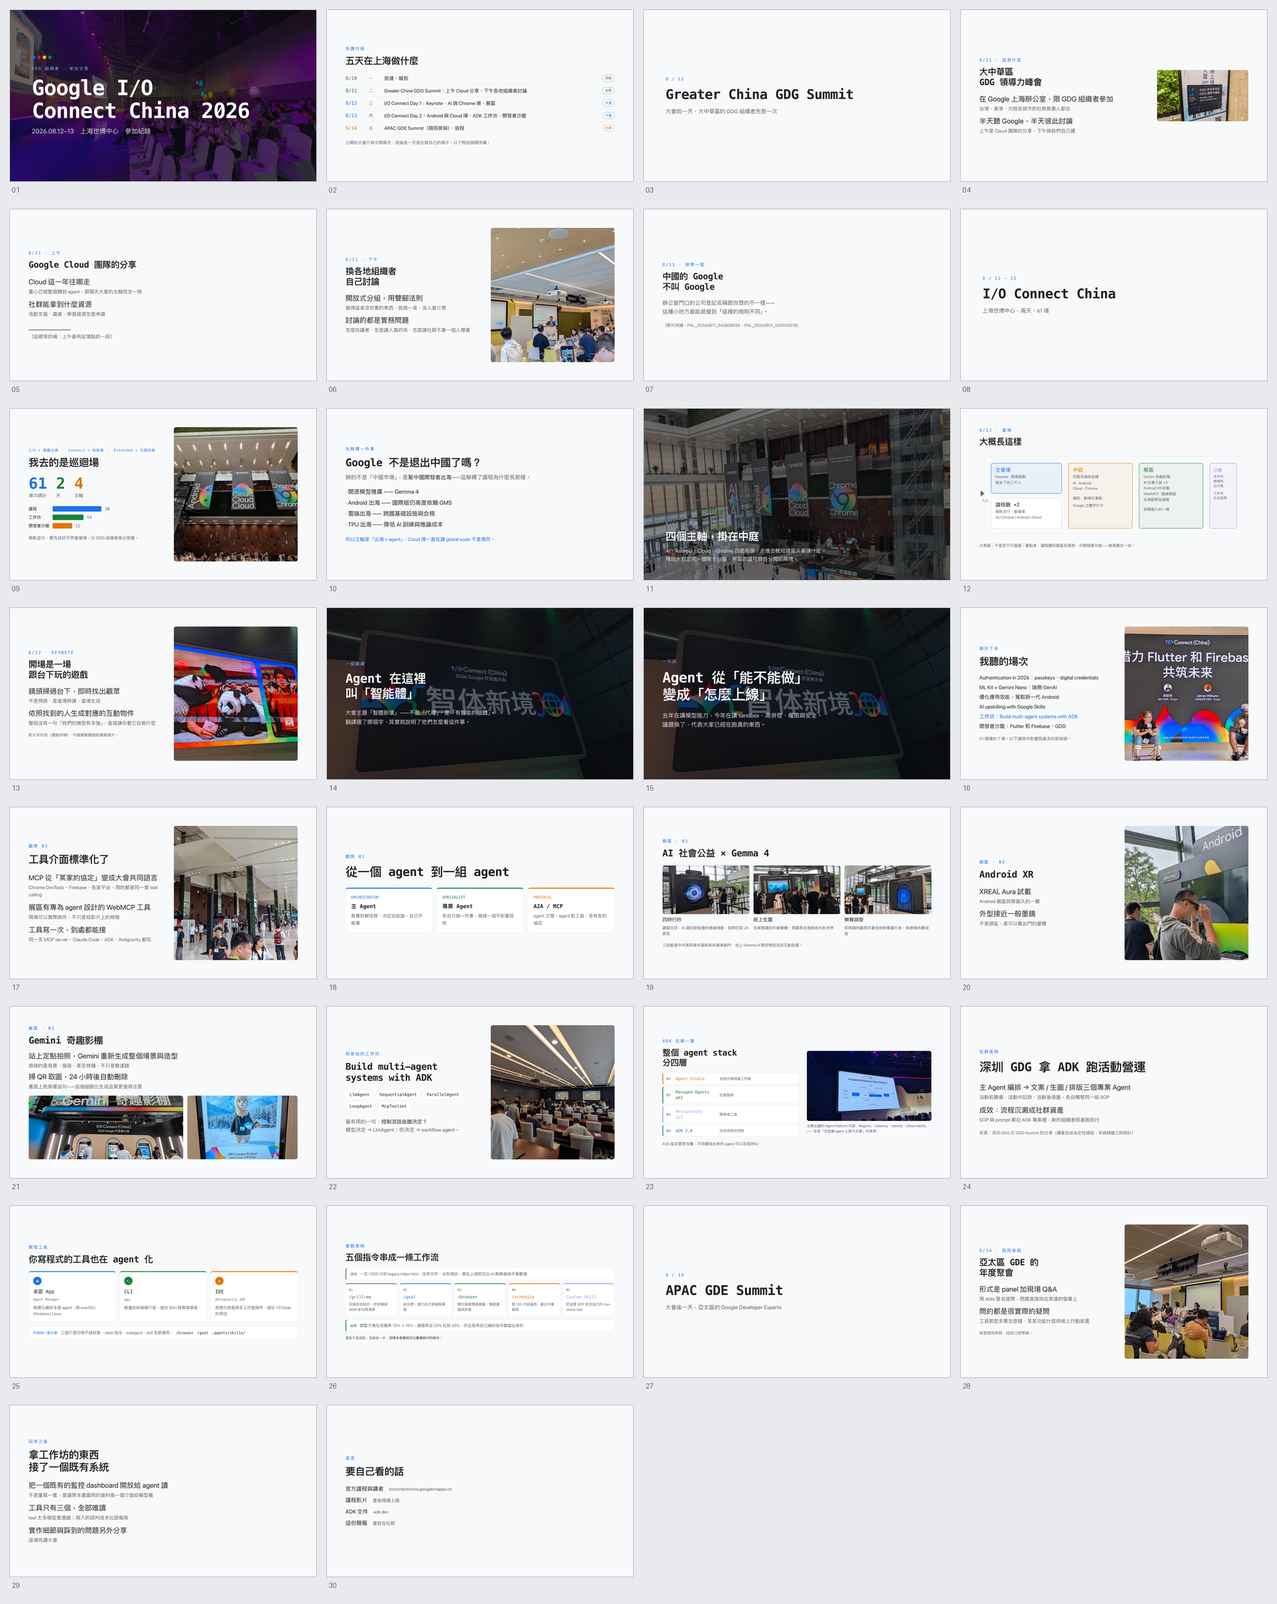
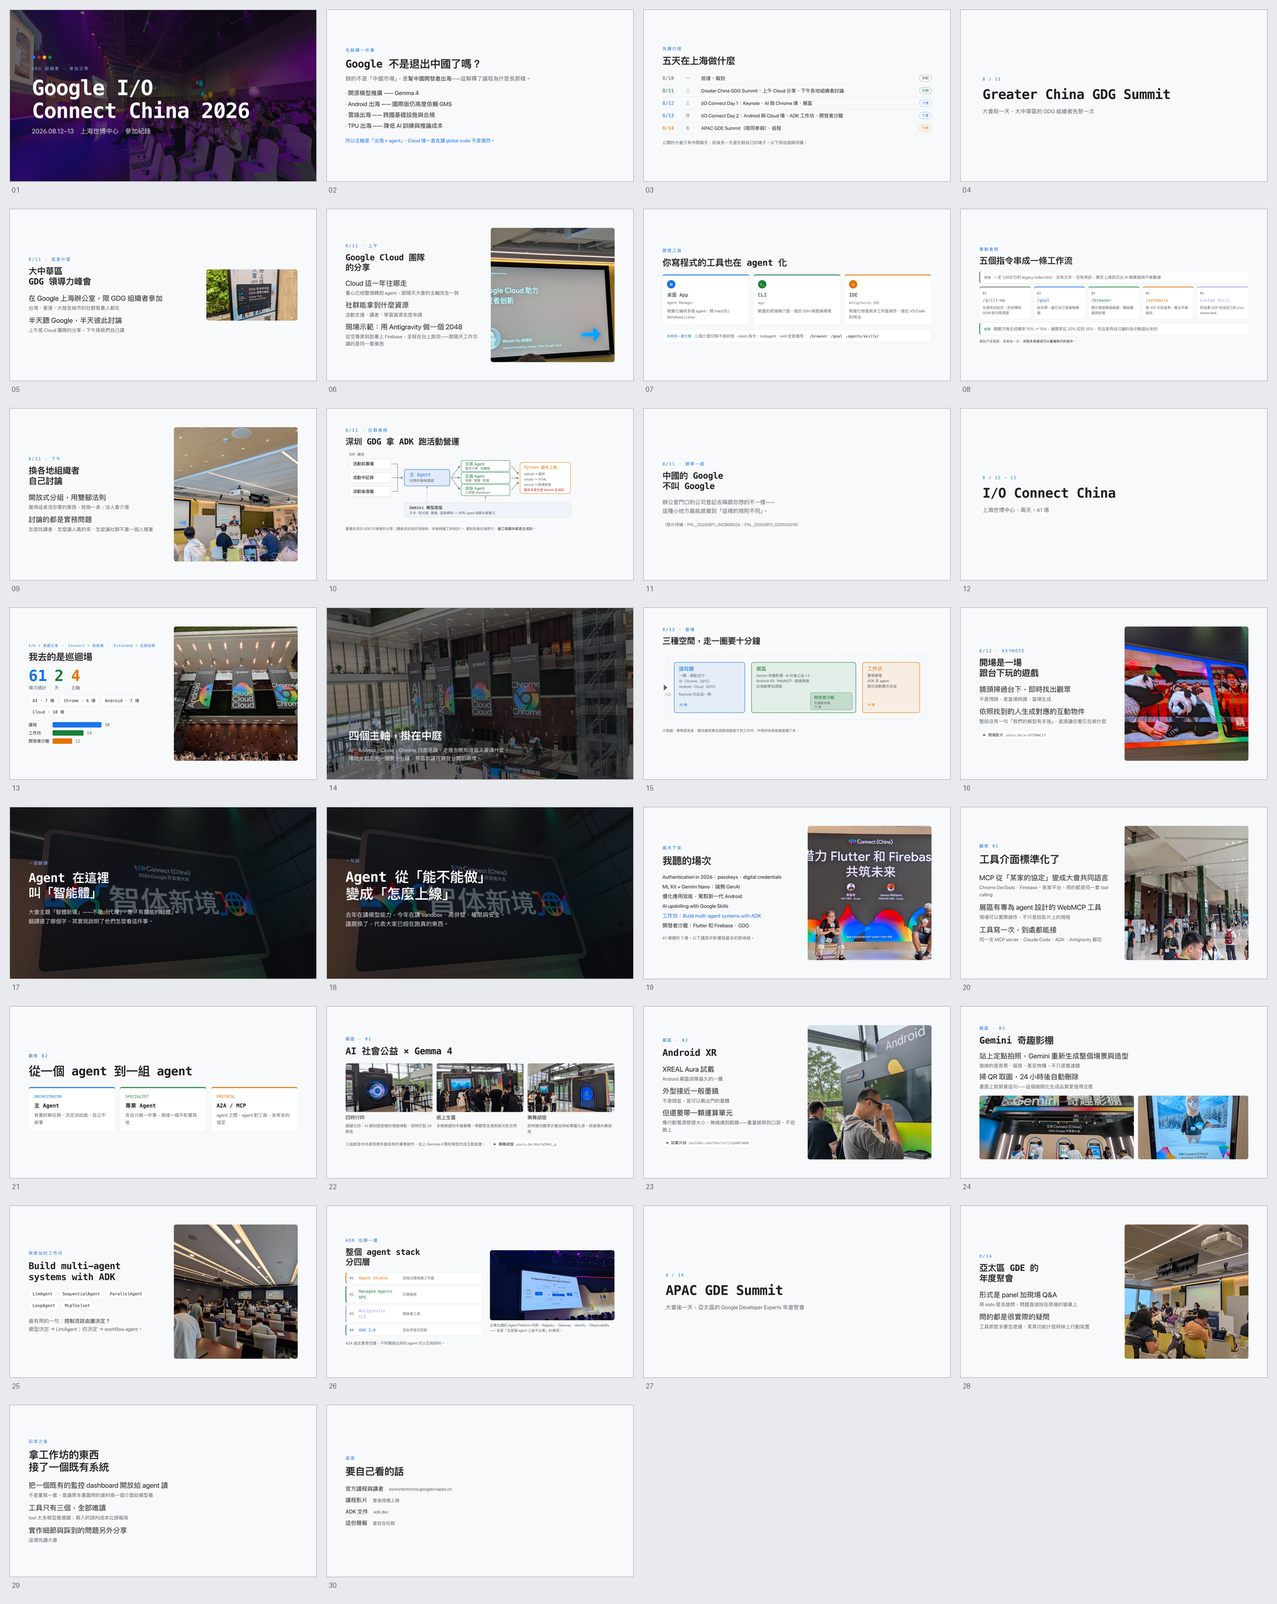
feat(slides): redraw shenzhen architecture, add videos and venue map

diff --git a/slides/io-connect-2026/index.tsx b/slides/io-connect-2026/index.tsx
@@ -11,6 +11,7 @@ import agentPlatform from './assets/agent-platform.jpg';
 import googleSign from './assets/google-sign.jpg';
 import gdgSummit from './assets/gdg-summit.jpg';
 import gdgPoster from './assets/gdg-poster.jpg';
+import gdgCloud from './assets/gdg-cloud.jpg';
 import gdeSummit from './assets/gde-summit.jpg';
 import venue from './assets/venue.jpg';
 import keynoteGame from './assets/keynote-game.jpg';
@@ -279,6 +280,25 @@ const DayRow = ({ date, day, what, tag, color }: { date: string; day: string; wh
   </div>
 );
 
+/** 影片註記:投影時講者自己切過去播 */
+const VideoNote = ({ label, url }: { label: string; url: string }) => (
+  <div
+    style={{
+      display: 'inline-flex',
+      alignItems: 'baseline',
+      gap: 14,
+      border: `1px solid ${line}`,
+      background: card,
+      borderRadius: 999,
+      padding: '10px 22px',
+    }}
+  >
+    <span style={{ color: red, fontSize: 22 }}>▶</span>
+    <span style={{ fontSize: 24 }}>{label}</span>
+    <span style={{ fontFamily: 'var(--osd-font-display)', fontSize: 21, color: muted }}>{url}</span>
+  </div>
+);
+
 // ---------------------------------------------------------------- pages
 
 const Cover: Page = () => (
@@ -316,23 +336,26 @@ const Where: Page = () => (
       <div style={{ ...eyebrow, fontSize: 22, letterSpacing: '0.08em', textTransform: 'none' }}>
         I/O = 美國主場　·　Connect = 巡迴場　·　Extended = 社群自辦
       </div>
-      <h2 style={{ ...h2, fontSize: 64, marginTop: 22 }}>我去的是巡迴場</h2>
+      <h2 style={{ ...h2, fontSize: 58, marginTop: 20 }}>我去的是巡迴場</h2>
 
-      <div style={{ display: 'flex', gap: 56, marginTop: 44 }}>
+      <div style={{ display: 'flex', gap: 46, marginTop: 34 }}>
         <Figure n="61" label="場次總計" color="#1a73e8" />
         <Figure n="2" label="天" color={green} />
         <Figure n="4" label="主軸" color={yellow} />
       </div>
 
-      <div style={{ display: 'flex', flexDirection: 'column', gap: 14, marginTop: 44 }}>
+      <div style={{ display: 'flex', flexWrap: 'wrap', gap: 10, marginTop: 30 }}>
+        <Chip text="AI · 7 場" />
+        <Chip text="Chrome · 6 場" />
+        <Chip text="Android · 7 場" />
+        <Chip text="Cloud · 10 場" />
+      </div>
+
+      <div style={{ display: 'flex', flexDirection: 'column', gap: 12, marginTop: 30 }}>
         <TrackBar name="議程" n={30} total={61} color="#1a73e8" />
         <TrackBar name="工作坊" n={19} total={61} color={green} />
         <TrackBar name="開發者沙龍" n={12} total={61} color={yellow} />
       </div>
-
-      <p style={{ fontSize: 26, color: muted, marginTop: 36, marginBottom: 0 }}>
-        兩軌並行，要先排好不然會撞場。以 GDG 組織者身分受邀。
-      </p>
     </div>
     <PhotoSide src={tracks} />
   </div>
@@ -450,9 +473,12 @@ const BoothArt: Page = () => (
         note="即時識別觀眾衣著並映射專屬化身，與唐俑共舞胡旋"
       />
     </div>
-    <p style={{ fontSize: 24, color: muted, marginTop: 36, marginBottom: 0 }}>
-      三組都是中央美院青年藝術家的畢業創作，加上 Gemma 4 開放模型改成互動裝置。
-    </p>
+    <div style={{ display: 'flex', alignItems: 'center', gap: 24, marginTop: 32, flexWrap: 'wrap' }}>
+      <span style={{ fontSize: 24, color: muted }}>
+        三組都是中央美院青年藝術家的畢業創作，加上 Gemma 4 開放模型改成互動裝置。
+      </span>
+      <VideoNote label="樂舞胡旋" url="youtu.be/AbeYp5MeL_g" />
+    </div>
   </div>
 );
 
@@ -461,9 +487,16 @@ const BoothXr: Page = () => (
     <div style={{ flex: 1 }}>
       <div style={eyebrow}>展區 · 02</div>
       <h2 style={{ ...h2, fontSize: 58, marginTop: 24 }}>Android XR</h2>
-      <div style={{ display: 'flex', flexDirection: 'column', gap: 24, marginTop: 40 }}>
+      <div style={{ display: 'flex', flexDirection: 'column', gap: 22, marginTop: 36 }}>
         <Bullet text="XREAL Aura 試戴" sub="Android 展區排隊最久的一攤" />
         <Bullet text="外型接近一般墨鏡" sub="不是頭盔，是可以戴出門的量體" />
+        <Bullet
+          text="但還要帶一顆運算單元"
+          sub="像行動電源那樣大小，無線連到眼鏡——重量被移到口袋，不在臉上"
+        />
+      </div>
+      <div style={{ marginTop: 30 }}>
+        <VideoNote label="試戴片段" url="youtube.com/shorts/ilkpGmFsWaE" />
       </div>
     </div>
     <PhotoSide src={boothXr} />
@@ -538,15 +571,69 @@ const Stack: Page = () => (
 );
 
 const Shenzhen: Page = () => (
-  <div style={{ ...page, justifyContent: 'center' }}>
-    <div style={eyebrow}>社群案例</div>
-    <h2 style={{ ...h2, marginTop: 30 }}>深圳 GDG 拿 ADK 跑活動營運</h2>
-    <div style={{ display: 'flex', flexDirection: 'column', gap: 28, marginTop: 50 }}>
-      <Bullet text="主 Agent 編排 → 文案 / 生圖 / 排版三個專業 Agent" sub="活動前籌備、活動中記錄、活動後復盤，各自觸發同一組 SOP" />
-      <Bullet text="成效：流程沉澱成社群資產" sub="SOP 與 prompt 都在 ADK 專案裡，新的組織者照著跑就行" />
-    </div>
-    <p style={{ fontSize: 26, color: muted, marginTop: 40, marginBottom: 0 }}>
-      來源：深圳 GDG 於 GDG Summit 的分享（講者自述為定性總結，未做精確工時統計）
+  <div style={{ ...page }}>
+    <div style={eyebrow}>8/11 · 社群案例</div>
+    <h2 style={{ ...h2, fontSize: 52, marginTop: 20 }}>深圳 GDG 拿 ADK 跑活動營運</h2>
+    <svg viewBox="0 0 1600 430" style={{ width: '100%', height: 'auto', marginTop: 26 }} role="img"
+         aria-label="多 agent 架構：SOP 觸發交給主 agent 拆解，分派給文案、生圖、排版三個專業 agent，再交給 Python 腳本工具，底層都是 Gemini">
+      <defs>
+        <marker id="sz" viewBox="0 0 10 10" refX="9" refY="5" markerWidth="7" markerHeight="7" orient="auto-start-reverse">
+          <polygon points="0,1 10,5 0,9" fill={muted} />
+        </marker>
+      </defs>
+
+      <text x="20" y="30" fontSize="21" fill={muted} fontFamily="ui-monospace, monospace">SOP 觸發</text>
+      <rect x="20" y="48" width="250" height="62" rx="10" fill={card} stroke={line} strokeWidth="2" />
+      <text x="44" y="87" fontSize="25">活動前籌備</text>
+      <rect x="20" y="130" width="250" height="62" rx="10" fill={card} stroke={line} strokeWidth="2" />
+      <text x="44" y="169" fontSize="25">活動中記錄</text>
+      <rect x="20" y="212" width="250" height="62" rx="10" fill={card} stroke={line} strokeWidth="2" />
+      <text x="44" y="251" fontSize="25">活動後復盤</text>
+
+      <path d="M 278 79 L 310 79 L 310 161 L 342 161" fill="none" stroke={muted} strokeWidth="2" />
+      <path d="M 278 161 L 342 161" fill="none" stroke={muted} strokeWidth="2" markerEnd="url(#sz)" />
+      <path d="M 278 243 L 310 243 L 310 161" fill="none" stroke={muted} strokeWidth="2" />
+
+      <rect x="350" y="112" width="270" height="98" rx="12" fill="rgba(26,115,232,0.1)" stroke="#1a73e8" strokeWidth="2.5" />
+      <text x="380" y="152" fontSize="28" fill="#1a73e8" fontFamily="ui-monospace, monospace">主 Agent</text>
+      <text x="380" y="186" fontSize="21" fill={muted}>任務拆解與調度</text>
+
+      <line x1="628" y1="161" x2="680" y2="90" stroke={muted} strokeWidth="2" markerEnd="url(#sz)" />
+      <line x1="628" y1="161" x2="680" y2="161" stroke={muted} strokeWidth="2" markerEnd="url(#sz)" />
+      <line x1="628" y1="161" x2="680" y2="232" stroke={muted} strokeWidth="2" markerEnd="url(#sz)" />
+
+      <rect x="688" y="58" width="290" height="66" rx="10" fill={card} stroke={green} strokeWidth="2" />
+      <text x="712" y="88" fontSize="24" fill={green}>文案 Agent</text>
+      <text x="712" y="112" fontSize="19" fill={muted}>報名文案 · 回顧稿</text>
+
+      <rect x="688" y="130" width="290" height="66" rx="10" fill={card} stroke={green} strokeWidth="2" />
+      <text x="712" y="160" fontSize="24" fill={green}>生圖 Agent</text>
+      <text x="712" y="184" fontSize="19" fill={muted}>海報 · 題圖 · 配圖</text>
+
+      <rect x="688" y="202" width="290" height="66" rx="10" fill={card} stroke={green} strokeWidth="2" />
+      <text x="712" y="232" fontSize="24" fill={green}>排版 Agent</text>
+      <text x="712" y="256" fontSize="19" fill={muted}>公眾號 Markdown</text>
+
+      <line x1="986" y1="90" x2="1030" y2="140" stroke={muted} strokeWidth="2" markerEnd="url(#sz)" />
+      <line x1="986" y1="163" x2="1030" y2="163" stroke={muted} strokeWidth="2" markerEnd="url(#sz)" />
+      <line x1="986" y1="235" x2="1030" y2="186" stroke={muted} strokeWidth="2" markerEnd="url(#sz)" />
+
+      <rect x="1038" y="70" width="300" height="186" rx="12" fill={card} stroke={yellow} strokeWidth="2" />
+      <text x="1062" y="108" fontSize="24" fill={yellow} fontFamily="ui-monospace, monospace">Python 腳本工具</text>
+      <text x="1062" y="146" fontSize="20" fill={muted}>upload → 圖床</text>
+      <text x="1062" y="178" fontSize="20" fill={muted}>render → HTML</text>
+      <text x="1062" y="210" fontSize="20" fill={muted}>record → 現場錄音</text>
+      <text x="1062" y="240" fontSize="19" fill={red}>腳本本身也是 Gemini 生成的</text>
+
+      <rect x="350" y="310" width="988" height="86" rx="12" fill="rgba(66,133,244,0.05)" stroke={line} strokeWidth="2" />
+      <text x="380" y="348" fontSize="24" fontFamily="ui-monospace, monospace">Gemini 模型底座</text>
+      <text x="380" y="378" fontSize="20" fill={muted}>文本 · 程式碼 · 圖像 · 語音轉寫——所有 agent 與腳本都靠它</text>
+      <line x1="485" y1="306" x2="485" y2="214" stroke={muted} strokeWidth="1.5" strokeDasharray="4 4" markerEnd="url(#sz)" />
+      <line x1="833" y1="306" x2="833" y2="272" stroke={muted} strokeWidth="1.5" strokeDasharray="4 4" markerEnd="url(#sz)" />
+    </svg>
+    <p style={{ fontSize: 22, color: muted, marginTop: 20, marginBottom: 0 }}>
+      重畫自深圳 GDG 於峰會的分享（講者自述為定性總結，未做精確工時統計）。
+      重點是最右邊那行：<span style={{ color: 'var(--osd-text)' }}>連工具腳本都是生成的</span>。
     </p>
   </div>
 );
@@ -668,14 +755,20 @@ const GdgWhat: Page = () => (
 );
 
 const GdgMorning: Page = () => (
-  <div style={{ ...page, justifyContent: 'center' }}>
-    <div style={eyebrow}>8/11 · 上午</div>
-    <h2 style={{ ...h2, fontSize: 54, marginTop: 22 }}>Google Cloud 團隊的分享</h2>
-    <div style={{ display: 'flex', flexDirection: 'column', gap: 26, marginTop: 42 }}>
-      <Bullet text="Cloud 這一年往哪走" sub="重心已經整個轉到 agent，跟隔天大會的主軸完全一致" />
-      <Bullet text="社群能拿到什麼資源" sub="活動支援、講者、學習資源怎麼申請" />
-      <Bullet text="＿＿＿＿＿＿" sub="（這裡等你補：上午最有記憶點的一段）" />
+  <div style={{ ...page, flexDirection: 'row', gap: 56, alignItems: 'center' }}>
+    <div style={{ flex: 1 }}>
+      <div style={eyebrow}>8/11 · 上午</div>
+      <h2 style={{ ...h2, fontSize: 52, marginTop: 22 }}>Google Cloud 團隊<br />的分享</h2>
+      <div style={{ display: 'flex', flexDirection: 'column', gap: 22, marginTop: 36 }}>
+        <Bullet text="Cloud 這一年往哪走" sub="重心已經整個轉到 agent，跟隔天大會的主軸完全一致" />
+        <Bullet text="社群能拿到什麼資源" sub="活動支援、講者、學習資源怎麼申請" />
+        <Bullet
+          text="現場示範：用 Antigravity 做一個 2048"
+          sub="從空專案到部署上 Firebase，全程在台上跑完——跟隔天工作坊講的是同一套東西"
+        />
+      </div>
     </div>
+    <PhotoSide src={gdgCloud} />
   </div>
 );
 
@@ -728,51 +821,42 @@ const Venue: Page = () => (
 const VenueMap: Page = () => (
   <div style={{ ...page }}>
     <div style={eyebrow}>8/12 · 會場</div>
-    <h2 style={{ ...h2, fontSize: 54, marginTop: 20 }}>大概長這樣</h2>
-    <svg viewBox="0 0 1600 520" style={{ width: '100%', height: 'auto', marginTop: 28 }} role="img"
-         aria-label="會場配置示意圖：入口進來是中庭，左邊是主會場與議程廳，右邊是展區，外側是半戶外的開發者沙龍">
-      <rect x="30" y="30" width="1540" height="460" rx="16" fill="none" stroke={line} strokeWidth="2" strokeDasharray="6 5" />
+    <h2 style={{ ...h2, fontSize: 52, marginTop: 20 }}>三種空間，走一圈要十分鐘</h2>
+    <svg viewBox="0 0 1600 440" style={{ width: '100%', height: 'auto', marginTop: 30 }} role="img"
+         aria-label="會場配置：一樓藍色是議程廳，綠色是展區，黃色是工作坊，開發者沙龍在展區末端">
+      <rect x="30" y="30" width="1540" height="380" rx="16" fill="none" stroke={line} strokeWidth="2" strokeDasharray="6 5" />
 
-      <rect x="70" y="70" width="420" height="180" rx="12" fill="rgba(26,115,232,0.07)" stroke="#1a73e8" strokeWidth="2" />
-      <text x="96" y="120" fontSize="30" fontFamily="ui-monospace, monospace" fill="#1a73e8">主會場</text>
-      <text x="96" y="158" fontSize="22" fill={muted}>Keynote · 開場遊戲</text>
-      <text x="96" y="192" fontSize="22" fill={muted}>能坐下近三千人</text>
+      <rect x="70" y="70" width="420" height="300" rx="12" fill="rgba(26,115,232,0.09)" stroke="#1a73e8" strokeWidth="2.5" />
+      <text x="98" y="118" fontSize="30" fontFamily="ui-monospace, monospace" fill="#1a73e8">議程廳</text>
+      <text x="98" y="156" fontSize="22" fill={muted}>一樓，兩軌並行</text>
+      <text x="98" y="190" fontSize="22" fill={muted}>AI · Chrome（8/12）</text>
+      <text x="98" y="222" fontSize="22" fill={muted}>Android · Cloud（8/13）</text>
+      <text x="98" y="268" fontSize="22" fill={muted}>Keynote 也在這一側</text>
+      <text x="98" y="330" fontSize="20" fill="#1a73e8">30 場</text>
 
-      <rect x="70" y="278" width="420" height="180" rx="12" fill={card} stroke={line} strokeWidth="2" />
-      <text x="96" y="328" fontSize="30" fontFamily="ui-monospace, monospace" fill="var(--osd-text)">議程廳 ×2</text>
-      <text x="96" y="366" fontSize="22" fill={muted}>兩軌並行，會撞場</text>
-      <text x="96" y="400" fontSize="22" fill={muted}>AI / Chrome / Android / Cloud</text>
+      <rect x="530" y="70" width="620" height="300" rx="12" fill="rgba(24,128,56,0.09)" stroke={green} strokeWidth="2.5" />
+      <text x="558" y="118" fontSize="30" fontFamily="ui-monospace, monospace" fill={green}>展區</text>
+      <text x="558" y="156" fontSize="22" fill={muted}>Gemini 奇趣影棚 · AI 社會公益 ×3</text>
+      <text x="558" y="188" fontSize="22" fill={muted}>Android XR · WebMCP · 邊緣推論</text>
+      <text x="558" y="220" fontSize="22" fill={muted}>出海創業加速器</text>
 
-      <rect x="530" y="70" width="380" height="388" rx="12" fill="rgba(232,116,0,0.06)" stroke={yellow} strokeWidth="2" />
-      <text x="556" y="120" fontSize="30" fontFamily="ui-monospace, monospace" fill={yellow}>中庭</text>
-      <text x="556" y="158" fontSize="22" fill={muted}>四面吊旗掛這裡</text>
-      <text x="556" y="196" fontSize="22" fill={muted}>AI · Android</text>
-      <text x="556" y="228" fontSize="22" fill={muted}>Cloud · Chrome</text>
-      <text x="556" y="286" fontSize="22" fill={muted}>報到、動線交會點</text>
-      <text x="556" y="330" fontSize="22" fill={muted}>Google 立體字打卡</text>
+      <rect x="880" y="250" width="248" height="102" rx="10" fill="rgba(24,128,56,0.16)" stroke={green} strokeWidth="2" strokeDasharray="5 4" />
+      <text x="902" y="288" fontSize="24" fill={green}>開發者沙龍</text>
+      <text x="902" y="318" fontSize="19" fill={muted}>在展區末端</text>
+      <text x="902" y="342" fontSize="19" fill={muted}>12 場</text>
 
-      <rect x="950" y="70" width="380" height="388" rx="12" fill="rgba(24,128,56,0.06)" stroke={green} strokeWidth="2" />
-      <text x="976" y="120" fontSize="30" fontFamily="ui-monospace, monospace" fill={green}>展區</text>
-      <text x="976" y="158" fontSize="22" fill={muted}>Gemini 奇趣影棚</text>
-      <text x="976" y="192" fontSize="22" fill={muted}>AI 社會公益 ×3</text>
-      <text x="976" y="226" fontSize="22" fill={muted}>Android XR 試戴</text>
-      <text x="976" y="260" fontSize="22" fill={muted}>WebMCP · 邊緣推論</text>
-      <text x="976" y="294" fontSize="22" fill={muted}>出海創業加速器</text>
-      <text x="976" y="352" fontSize="22" fill={muted}>排隊最久的一塊</text>
+      <rect x="1190" y="70" width="340" height="300" rx="12" fill="rgba(232,116,0,0.09)" stroke={yellow} strokeWidth="2.5" />
+      <text x="1218" y="118" fontSize="30" fontFamily="ui-monospace, monospace" fill={yellow}>工作坊</text>
+      <text x="1218" y="156" fontSize="22" fill={muted}>要帶筆電</text>
+      <text x="1218" y="188" fontSize="22" fill={muted}>ADK 多 agent</text>
+      <text x="1218" y="220" fontSize="22" fill={muted}>兩日挑戰賽也在這</text>
+      <text x="1218" y="330" fontSize="20" fill={yellow}>19 場</text>
 
-      <rect x="1370" y="70" width="160" height="388" rx="12" fill="rgba(164,143,240,0.06)" stroke="#a48ff0" strokeWidth="2" />
-      <text x="1392" y="120" fontSize="26" fontFamily="ui-monospace, monospace" fill="#a48ff0">沙龍</text>
-      <text x="1392" y="156" fontSize="20" fill={muted}>半戶外</text>
-      <text x="1392" y="184" fontSize="20" fill={muted}>綠植柱</text>
-      <text x="1392" y="212" fontSize="20" fill={muted}>白方凳</text>
-      <text x="1392" y="256" fontSize="20" fill={muted}>工作坊</text>
-      <text x="1392" y="284" fontSize="20" fill={muted}>也在這側</text>
-
-      <polygon points="30,250 8,232 8,268" fill={muted} />
-      <text x="14" y="300" fontSize="20" fill={muted}>入口</text>
+      <polygon points="30,220 8,202 8,238" fill={muted} />
+      <text x="12" y="268" fontSize="20" fill={muted}>入口</text>
     </svg>
-    <p style={{ fontSize: 24, color: muted, marginTop: 24, marginBottom: 0 }}>
-      示意圖，不是官方平面圖。重點是：議程廳和展區在兩側，中間隔著中庭——換場要走一段。
+    <p style={{ fontSize: 22, color: muted, marginTop: 22, marginBottom: 0 }}>
+      示意圖。實際感受是：聽完議程要走過整個展區才到工作坊，中間很容易被展區攔下來。
     </p>
   </div>
 );
@@ -786,9 +870,9 @@ const KeynoteGame: Page = () => (
         <Bullet text="鏡頭掃過台下，即時找出觀眾" sub="不是預錄，是當場辨識、當場生成" />
         <Bullet text="依照找到的人生成對應的互動物件" sub="整段沒有一句「我們的模型有多強」，直接讓你看它在做什麼" />
       </div>
-      <p style={{ fontSize: 24, color: muted, marginTop: 34, marginBottom: 0 }}>
-        影片另外放（連結待補），不進簡報檔避免檔案過大。
-      </p>
+      <div style={{ marginTop: 34 }}>
+        <VideoNote label="現場影片" url="youtu.be/x-16TENWLtI" />
+      </div>
     </div>
     <PhotoSide src={keynoteGame} />
   </div>
@@ -809,21 +893,19 @@ const Agentic: Page = () => (
 );
 
 const BreakGde: Page = () => (
-  <DayBreak date="8 / 14" title="APAC GDE Summit" sub="大會後一天，亞太區的 Google Developer Experts" />
+  <DayBreak date="8 / 14" title="APAC GDE Summit" sub="大會後一天，亞太區的 Google Developer Experts 年度聚會" />
 );
 
 const GdeSummit: Page = () => (
   <div style={{ ...page, flexDirection: 'row', gap: 56, alignItems: 'center' }}>
     <div style={{ flex: 1 }}>
-      <div style={eyebrow}>8/14 · 陪同參與</div>
+      <div style={eyebrow}>8/14</div>
       <h2 style={{ ...h2, fontSize: 54, marginTop: 22 }}>亞太區 GDE 的<br />年度聚會</h2>
       <div style={{ display: 'flex', flexDirection: 'column', gap: 24, marginTop: 38 }}>
         <Bullet text="形式是 panel 加現場 Q&A" sub="用 slido 匿名提問，問題直接投在旁邊的螢幕上" />
         <Bullet text="問的都是很實際的疑問" sub="工具那麼多要怎麼選、某某功能什麼時候上行動裝置" />
       </div>
-      <p style={{ fontSize: 24, color: muted, marginTop: 34, marginBottom: 0 }}>
-        我是陪同參與，這段口述帶過。
-      </p>
+
     </div>
     <PhotoSide src={gdeSummit} />
   </div>
@@ -877,19 +959,22 @@ export const meta: SlideMeta = {
 // 這份專注在大會本身，可獨立拿去社群分享。
 export default [
   Cover,
+  WhyChina,
   Itinerary,
 
   // ── 8/11 GDG Summit ──
   BreakGdg,
   GdgWhat,
   GdgMorning,
+  Tooling,
+  Codelab,
   GdgAfternoon,
+  Shenzhen,
   GdgFun,
 
   // ── 8/12–13 I/O Connect ──
   BreakIo,
   Where,
-  WhyChina,
   Venue,
   VenueMap,
   KeynoteGame,
@@ -903,9 +988,6 @@ export default [
   BoothStudio,
   Workshop,
   Stack,
-  Shenzhen,
-  Tooling,
-  Codelab,
 
   // ── 8/14 GDE Summit ──
   BreakGde,
